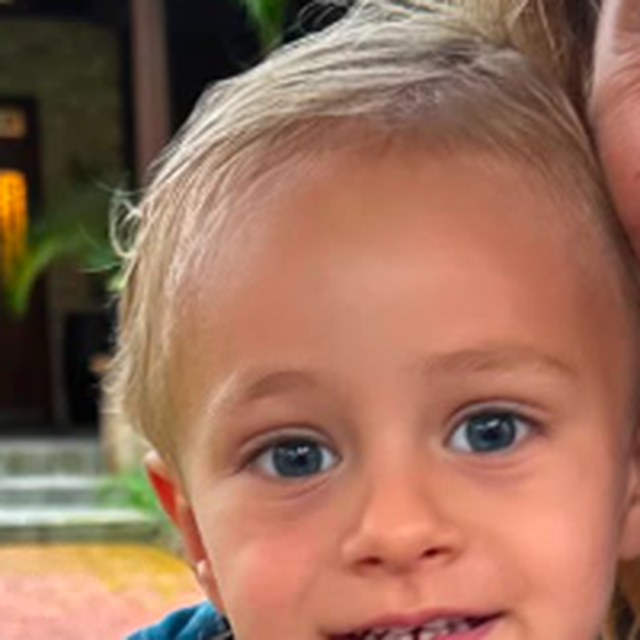
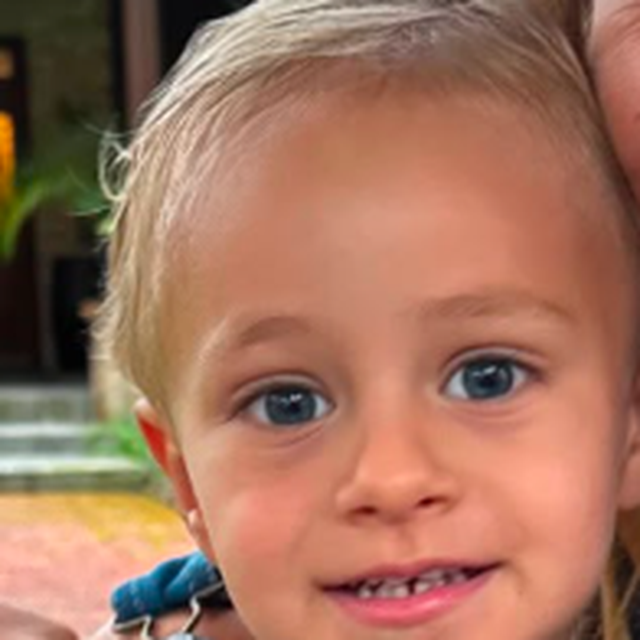
Nudge perfect-photo tip crop so Matteo sits in the circle center.

diff --git a/apps/web/src/landing.css b/apps/web/src/landing.css
@@ -225,7 +225,7 @@
 .shot-ava { width: 100%; aspect-ratio: 1 / 1; border-radius: 50%; overflow: hidden; border: 4px solid #d7dbe6; background: #fff; }
 .shot.ok .shot-ava { border-color: #2fa860; box-shadow: 0 0 0 5px rgba(47,168,96,.18); }
 .shot-ava img, .shot-ava .shot-svg { width: 100%; height: 100%; display: block; object-fit: cover; object-position: center center; }
-.shot.ok .shot-ava img { object-position: 52% 46%; }
+.shot.ok .shot-ava img { object-position: 58% 52%; }
 .shot:not(.ok) .shot-ava img,
 .shot:not(.ok) .shot-ava .shot-svg { filter: grayscale(1) contrast(.95) brightness(.96); }
 .shot-badge { position: absolute; left: 14px; top: 14px; width: 32px; height: 32px; border-radius: 50%; display: grid; place-items: center; color: #fff; box-shadow: 0 3px 10px rgba(0,0,0,.28); z-index: 2; transform: translate(-42%, -42%); border: 3px solid #f2faf3; }

diff --git a/backend/scripts/center_dica_boa.py b/backend/scripts/center_dica_boa.py
@@ -17,8 +17,8 @@ def main() -> None:
     im = Image.open(SRC).convert("RGB")
     w, h = im.size
     # Foto 236x352: rosto um pouco à direita; incluir testa → queixo
-    cx, cy = 138, 155  # ~58% x, ~44% y
-    side = 200
+    cx, cy = 152, 172  # puxa o rostinho para o centro do quadrado
+    side = 196
     left = max(0, min(w - side, cx - side // 2))
     top = max(0, min(h - side, cy - side // 2))
     crop = im.crop((left, top, left + side, top + side)).resize((640, 640), Image.LANCZOS)
